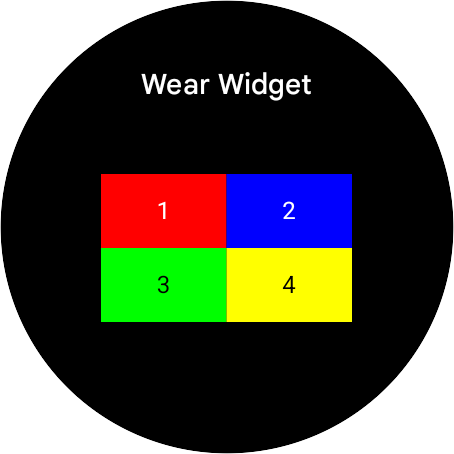
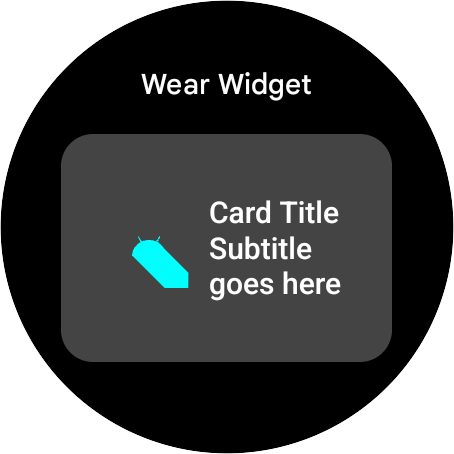
Update screenshots

diff --git a/WearWidgetKotlin/app/src/main/java/com/google/example/wear_widget/WidgetCatalog.kt b/WearWidgetKotlin/app/src/main/java/com/google/example/wear_widget/WidgetCatalog.kt
@@ -63,7 +63,7 @@ class WidgetCatalog : GlanceWearWidget() {
         context: Context,
         params: WearWidgetParams,
     ): WearWidgetData =
-        WearWidgetDocument(backgroundPainter = painterRemoteColor(Color.Black)) { CounterSample1() }
+        WearWidgetDocument(backgroundPainter = painterRemoteColor(Color.Black)) { CardSample1() }
 }
 
 /**
@@ -718,8 +718,7 @@ fun GridSample1() {
 }
 
 /**
- * A simulated card on a black background. A dark gray rounded container holds a cyan icon on the
- * left and two lines of text (Title, Subtitle) on the right.
+ * A dark screen displays "Wear Widget" in white at the top. Below, a rounded dark gray card contains a cyan Android-style icon on the left. To its right, white text reads "Card Title" followed by "Subtitle goes here" on two lines. The layout features generous margins within the card.
  */
 @RemoteComposable
 @Composable

diff --git a/WearWidgetKotlin/screenshots/SAMPLES.md b/WearWidgetKotlin/screenshots/SAMPLES.md
@@ -681,6 +681,61 @@ fun ButtonSample9() {
 }
 ```
 
+## CardSample1
+
+A dark screen displays "Wear Widget" in white at the top. Below, a rounded dark
+gray card contains a cyan Android-style icon on the left. To its right, white
+text reads "Card Title" followed by "Subtitle goes here" on two lines. The
+layout features generous margins within the card.
+
+![CardSample1](CardSample1.png)
+
+```kotlin
+/**
+ * A dark screen displays "Wear Widget" in white at the top. Below, a rounded dark gray card contains a cyan Android-style icon on the left. To its right, white text reads "Card Title" followed by "Subtitle goes here" on two lines. The layout features generous margins within the card.
+ */
+@RemoteComposable
+@Composable
+fun CardSample1() {
+    RemoteBox(
+        modifier = RemoteModifier.fillMaxSize().background(Color.Black),
+        horizontalAlignment = RemoteAlignment.CenterHorizontally,
+        verticalArrangement = RemoteArrangement.Center,
+    ) {
+        RemoteButton(
+            modifier = RemoteModifier.fillMaxSize().padding(10.dp),
+            enabled = RemoteBoolean(false), // act as container
+            colors =
+                RemoteButtonColors(
+                    containerColor = RemoteColor(Color.DarkGray),
+                    contentColor = RemoteColor(Color.White),
+                    secondaryContentColor = RemoteColor(Color.LightGray),
+                    iconColor = RemoteColor(Color.White),
+                    disabledContainerColor = RemoteColor(Color.DarkGray),
+                    disabledContentColor = RemoteColor(Color.White),
+                    disabledSecondaryContentColor = RemoteColor(Color.LightGray),
+                    disabledIconColor = RemoteColor(Color.White),
+                ),
+        ) {
+            RemoteRow(verticalAlignment = RemoteAlignment.CenterVertically) {
+                RemoteIcon(
+                    imageVector =
+                        ImageVector.vectorResource(id = R.drawable.ic_launcher_foreground),
+                    contentDescription = "Card Icon".rs,
+                    modifier = RemoteModifier.size(40.dp.asRdp()),
+                    tint = RemoteColor(Color.Cyan),
+                )
+                RemoteBox(RemoteModifier.size(10.dp.asRdp()))
+                RemoteColumn {
+                    MaterialRemoteText("Card Title".rs)
+                    MaterialRemoteText("Subtitle goes here".rs)
+                }
+            }
+        }
+    }
+}
+```
+
 ## CounterSample1
 
 A UI mockup on a black background. At the top, white text reads "Wear Widget."
